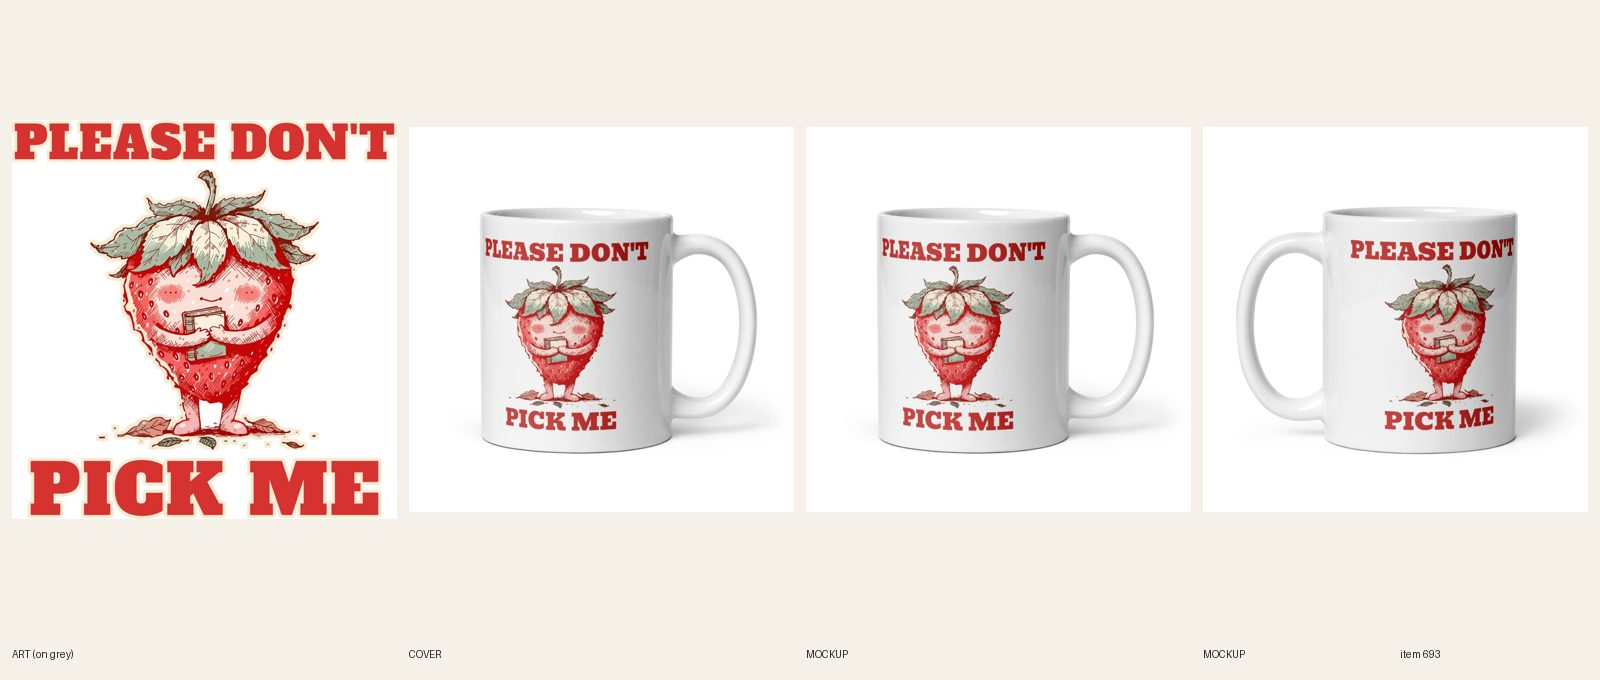
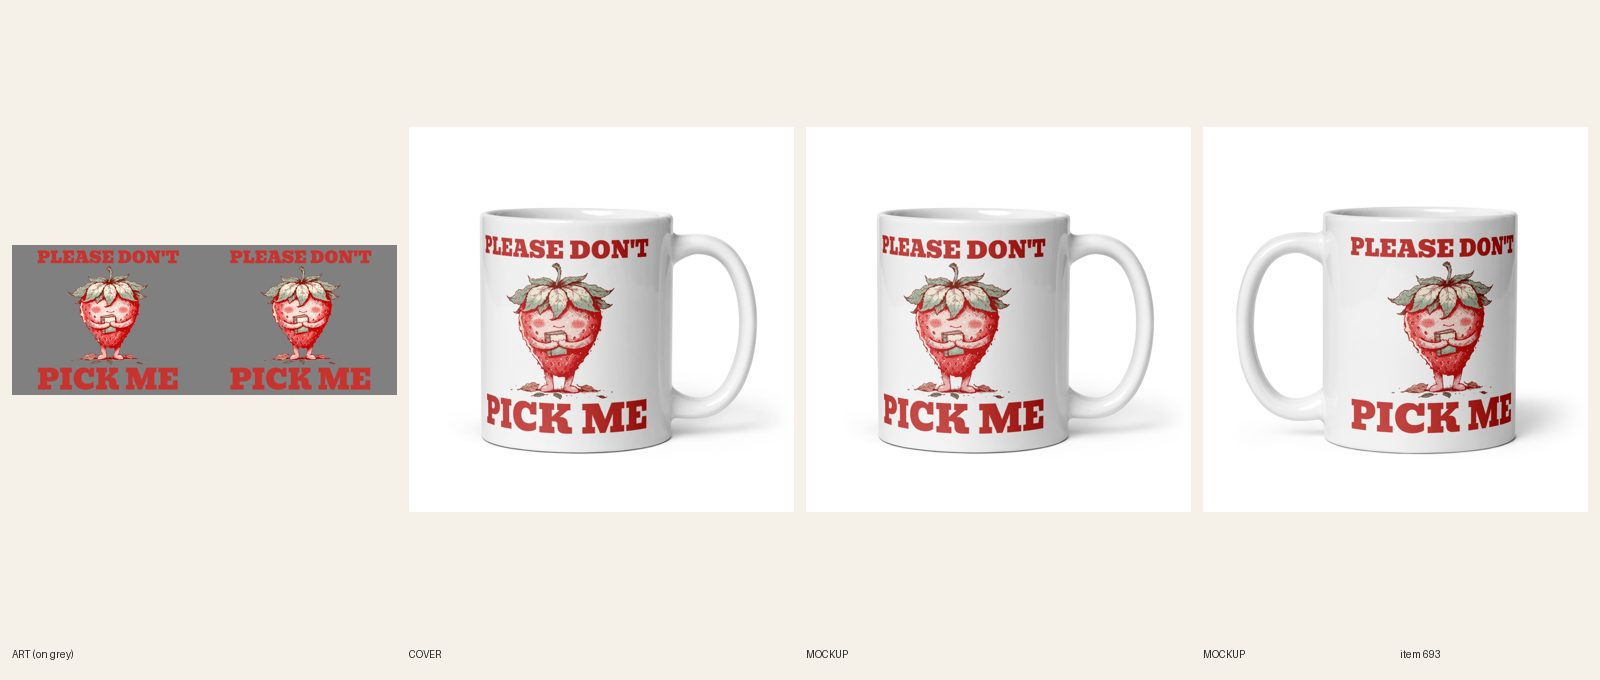
[C] review 693 strawberry mug punch width

diff --git a/docs/intake-log.md b/docs/intake-log.md
@@ -1,3 +1,4 @@
+2026-10-20 21:31 UTC — [C] Builder run: #693 strawberry mug punch widened to 100% of headline, REVIEW.
 2026-10-20 21:30 UTC — [C] Builder run: #692 alien mug photos re-attached (3 mockups), REVIEW.
 RUNNING lane C since 2026-10-20 21:30 UTC
 2026-10-20 21:50 UTC — [D] Director run: 6 LIVE (the cap), add-ons first per the inbox order, all approved 20:25 and re-read beside 493 and 483: mugs #690 Pillaging Is a Young Man's Game, #691 Horse Girl, Broke on Purpose; Frenchie ornaments #721 Silent Night. Except the Snoring., #725 Santa's Cookies? What Cookies., #727 I'm Helping. You're Welcome.; sweatpants #711 Rack Your Weights. Respectfully. (ACTIVE + Online Store, Headless, Google & YouTube; audit --handle PASS). Reviewed the 4 new items: approved and held #714 and #715 sweatpants; REDO #742 barre cropped hoodie (R5.3.4 swan holds the barre with a human hand like a pole; plain bars around a small figure). Article #801 Funny Hoodies: committed without draft: true, so it went live unreviewed at 20:46; read it, checked all six picks on Shopify (live, $39.99, colors right), fixed one 'hand-drawn' line, approved; writer card now says to check for the draft line. Briefs: #753 boxing hoodie (3,600 / KD 20, lane B) and #754 turtle hoodie (880 / KD 31, lane C); READY now A 12 / B 12 / C 12 / E 11. Kids line noted (needs a youth-hoodie blank check and audit support first). Re-asked Sam on Telegram, in plain words, whether the ~80 already-on-sale redos can be signed off outside the 6-LIVE cap. No digest (12:17 run sent it). Lock released.

diff --git a/docs/pipeline/693-strawberry-mug-please-dont-pick-me.md b/docs/pipeline/693-strawberry-mug-please-dont-pick-me.md
@@ -1,4 +1,4 @@
-status: REDO
+status: REVIEW
 lane: C
 type: addon
 id: 693
@@ -31,3 +31,4 @@ kd: 31
 - 2026-10-19 10:28 UTC [C]: art pulled from live file 1088493775, cream halo and keyline removed, red #c8332f Bevan slab (source font); headline 996 px, PICK ME 94/91 px high; light file: all words dark red, no cream; audit: only 'not visible' error; fal 0; Etsy check offline: director eyeball.
 - 2026-10-19 11:20 UTC director: APPROVED on docs/review/693.jpg (red words solid on the white mug with no cream halo or keyline, R5.3.8; the joke reads on all three views; copy matches the art noun by noun; title, tags, $17.99 with no compare-at, SEO 48/155 checked). Stays DRAFT at status REVIEW until the quality reset says RESUME; the director publishes it then with the audit.
 - 2026-10-20 20:25 UTC director: REDO (DRAFT). 1. R3.7.8: PICK ME is about 68% of PLEASE DON'T's width on all three mug views; the punch is never narrower than the headline. Set PICK ME at least as wide as PLEASE DON'T (the source tee art had it as the biggest line: copy that hierarchy), log both ink widths (builder card 7h), new mockups and sheet. fal $0.
+- 2026-10-20 21:31 UTC [C]: REDO done (R3.7.8). Mug print re-laid: headline 996 px / punch 998 px (PICK ME 100% of PLEASE DON'T's width, tallest line 155 px), art 564x690, lockup 976 px high, same red Bevan, dark ink only. File 1090685677 on the sync variant (verified synced), 3 new Printful mockups replaced in place (fileUpdate, alts kept), cover = new handle-right mockup. fal $0. designs/m693/spec2.json.
